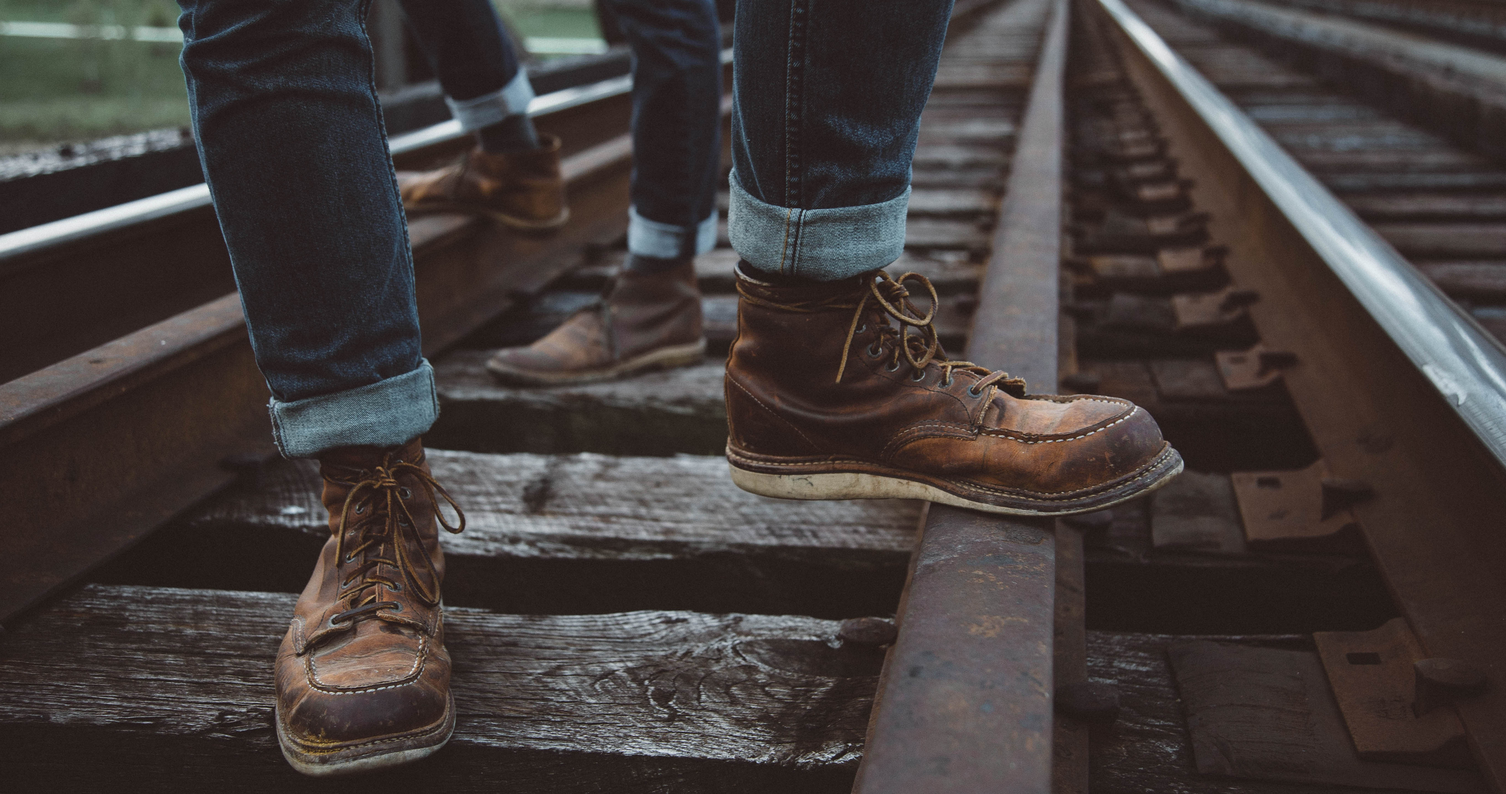
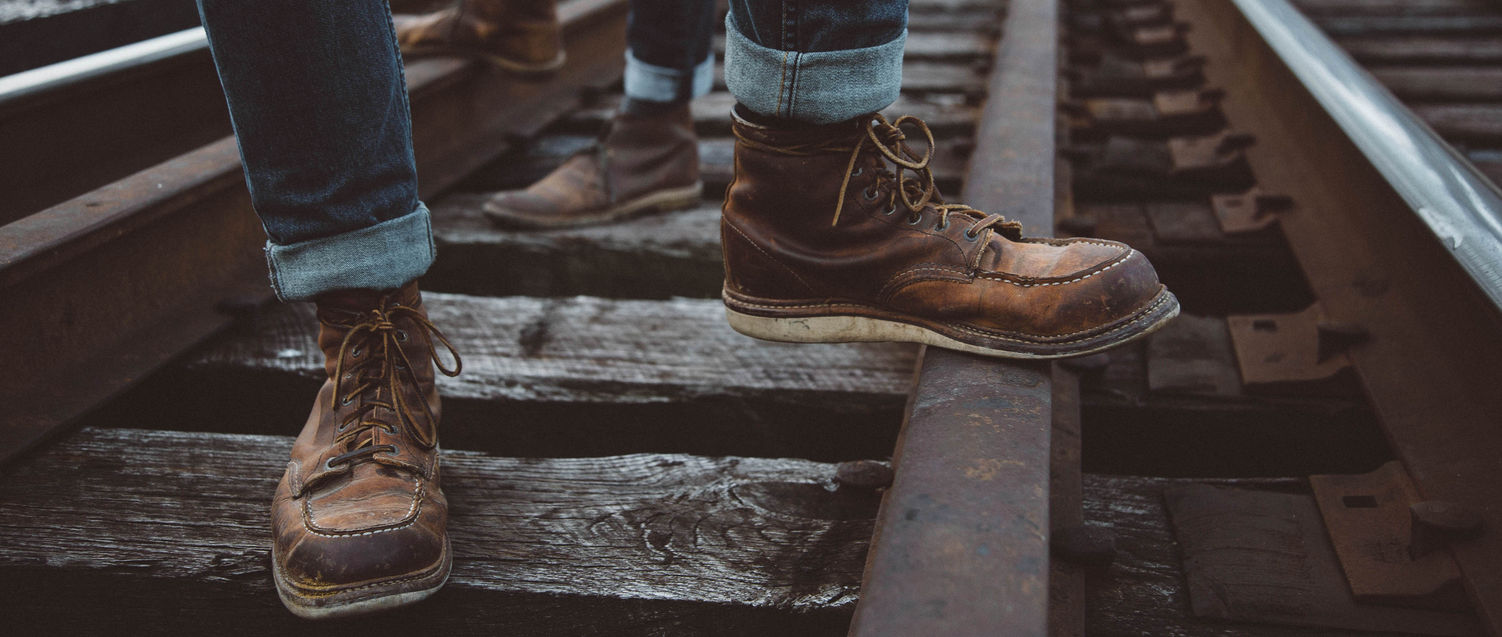
add additional styling to stores and brands pages

diff --git a/web/css/styles.css b/web/css/styles.css
@@ -2,6 +2,7 @@
 
 body {
     font-family: 'Source Sans Pro', sans-serif;
+    margin-bottom: 2%;
 }
 
 /*index styles*/
@@ -25,9 +26,10 @@ body {
 }
 
 .jumbotron {
+    margin-top: -10px;
     width: 100vw;
     margin-left: -15px;
-    height: 500px;
+    height: 35%;
     background-size: cover;
     background-repeat: no-repeat;
 }
@@ -35,12 +37,13 @@ body {
 .index-jumbo {
     background-image: url("/../img/background.jpeg");
 }
+
 .jumbotron h1 {
+    padding: 5% 0 2% 1.3%;
     font-size: 75px;
     text-align: center;
     text-transform: uppercase;
-    letter-spacing: 15px;
-    padding-top: 5%;
+    letter-spacing: 20px;
     color: white;
     font-weight: bold;
     font-family: 'Cabin', sans-serif;
@@ -57,12 +60,16 @@ body {
 
 .about-div {
     text-align: center;
-    height: 200px;
+    height: 60px;
 }
 
 .about-div h3 {
-    padding: 3%;
+    margin: 1%;
     font-family: 'Cabin', sans-serif;
+}
+
+.right {
+    float: right;
 }
 
 .listing-div {
@@ -74,7 +81,7 @@ body {
 }
 
 .listing-div p {
-    font-size: 16px;
+    font-size: 18px;
 }
 
 .add-form {
@@ -100,7 +107,7 @@ body {
     background-image: url("/../img/brand-background.jpeg");
 }
 
-
-.brand-jumbo h1 {
-    padding-top: 7%;
+.current-div {
+    text-align: center;
+    font-size: 18px; 
 }
